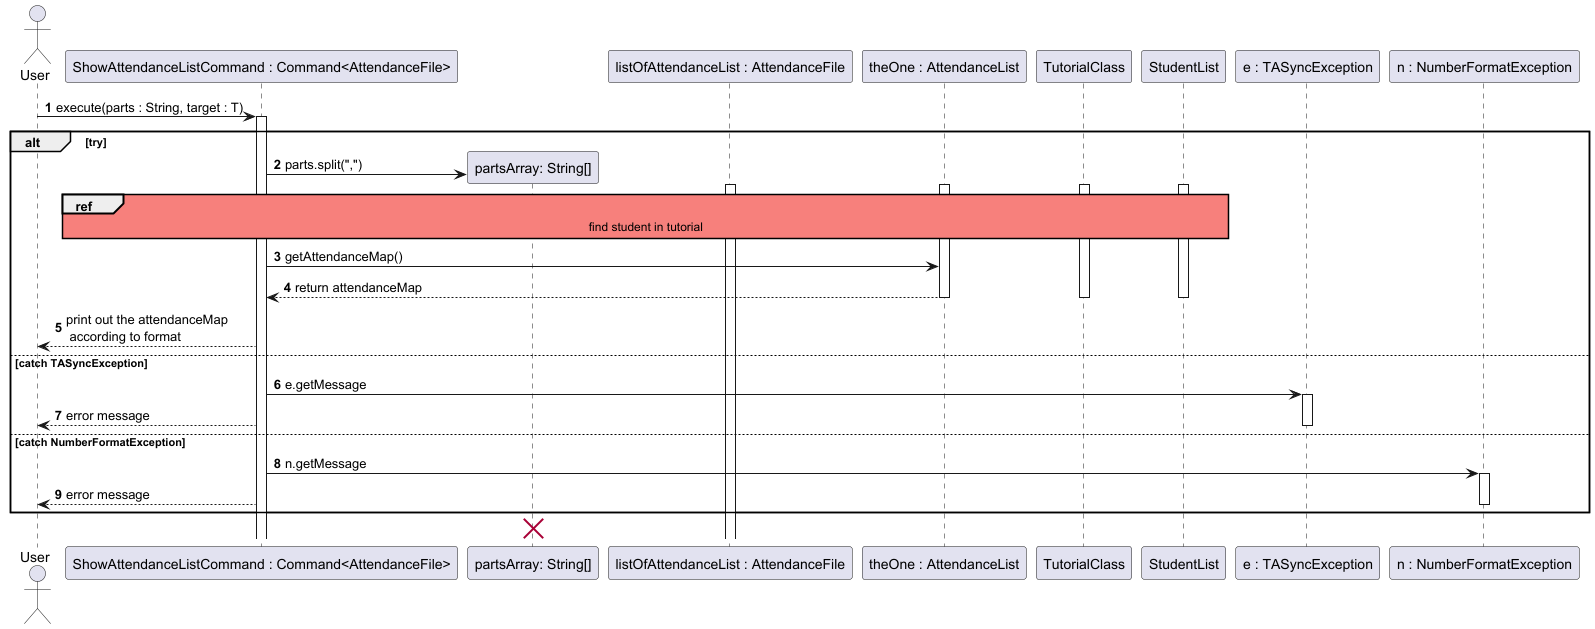
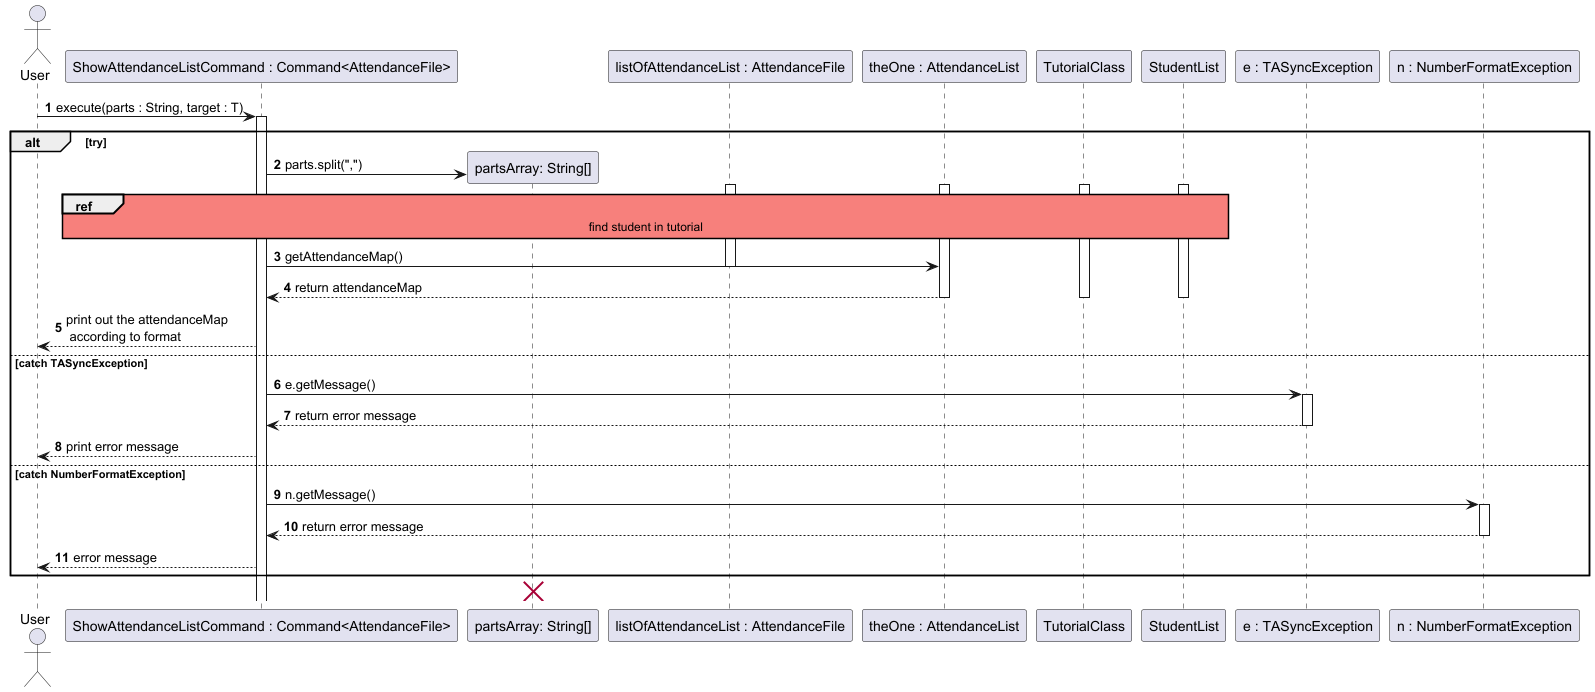
added success message printing for attendance list commands that prev printed nothing.Updated seq diagrams , UG and DG for attendancelist commands

diff --git a/src/test/java/attendancelistcommands/UnmarkStudentAttendanceCommandTest.java b/src/test/java/attendancelistcommands/UnmarkStudentAttendanceCommandTest.java
@@ -42,6 +42,7 @@ public class UnmarkStudentAttendanceCommandTest {
         String output = outputStream.toString().trim();
         assertTrue(output.contains("Roselle Gustave Bonaparte(A333): Absent"));
         assertTrue(output.contains("Kim Dokja(A003): Absent"));
+        assertTrue(output.contains("End of list"));
         outputStream = captureSystemOut();
         command1.execute(input[0], attendanceFile);
         command1.execute(input[1], attendanceFile);
@@ -49,6 +50,7 @@ public class UnmarkStudentAttendanceCommandTest {
         output = outputStream.toString().trim();
         assertTrue(output.contains("Roselle Gustave Bonaparte(A333): Present"));
         assertTrue(output.contains("Kim Dokja(A003): Present"));
+        assertTrue(output.contains("End of list"));
         outputStream = captureSystemOut();
         command2.execute(input[0], attendanceFile);
         command2.execute(input[1], attendanceFile);
@@ -56,37 +58,47 @@ public class UnmarkStudentAttendanceCommandTest {
         output = outputStream.toString().trim();
         assertTrue(output.contains("Roselle Gustave Bonaparte(A333): Absent"));
         assertTrue(output.contains("Kim Dokja(A003): Absent"));
+        assertTrue(output.contains("Student marked Absent"));
+        assertTrue(output.contains("End of list"));
 
         outputStream = captureSystemOut();
         command.execute("T02,3", attendanceFile);
         output = outputStream.toString().trim();
         assertTrue(output.contains("Kim Dokja(A003): Absent"));
+        assertTrue(output.contains("End of list"));
         outputStream = captureSystemOut();
         command1.execute(input[2], attendanceFile);
         command.execute("T02,3", attendanceFile);
         output = outputStream.toString().trim();
         assertTrue(output.contains("Kim Dokja(A003): Present"));
+        assertTrue(output.contains("End of list"));
         outputStream = captureSystemOut();
         command2.execute(input[2], attendanceFile);
         command.execute("T02,3", attendanceFile);
         output = outputStream.toString().trim();
         assertTrue(output.contains("Kim Dokja(A003): Absent"));
+        assertTrue(output.contains("Student marked Absent"));
+        assertTrue(output.contains("End of list"));
 
 
         outputStream = captureSystemOut();
         command.execute("T01,2", attendanceFile);
         output = outputStream.toString().trim();
         assertTrue(output.contains("Roselle Gustave Bonaparte(A333): Absent"));
+        assertTrue(output.contains("End of list"));
         outputStream = captureSystemOut();
         command1.execute(input[3], attendanceFile);
         command.execute("T01,2", attendanceFile);
         output = outputStream.toString().trim();
         assertTrue(output.contains("Roselle Gustave Bonaparte(A333): Present"));
+        assertTrue(output.contains("End of list"));
         outputStream = captureSystemOut();
         command2.execute(input[3], attendanceFile);
         command.execute("T02,3", attendanceFile);
         output = outputStream.toString().trim();
         assertTrue(output.contains("Roselle Gustave Bonaparte(A333): Absent"));
+        assertTrue(output.contains("Student marked Absent"));
+        assertTrue(output.contains("End of list"));
     }
 
     @Test
@@ -97,8 +109,8 @@ public class UnmarkStudentAttendanceCommandTest {
             UnmarkStudentAttendanceCommand command2 = new UnmarkStudentAttendanceCommand();
             command2.execute(s, attendanceFile);
             String output = outputStream.toString().trim();
-            assertTrue(output.contains("Invalid mark attendance command, " +
-                    "please specify a valid attendancelist with a tutorial id, week and valid student id and name"));
+            assertTrue(output.contains("Invalid mark attendance command, "
+                    + "please specify a valid attendancelist with a tutorial id, week and valid student id and name"));
         }
     }
 
@@ -111,8 +123,8 @@ public class UnmarkStudentAttendanceCommandTest {
             UnmarkStudentAttendanceCommand command2 = new UnmarkStudentAttendanceCommand();
             command2.execute(s, attendanceFile);
             String output = outputStream.toString().trim();
-            assertTrue(output.contains("Invalid mark attendance command, " +
-                    "please specify a valid attendancelist with a tutorial id, week and valid student id and name"));
+            assertTrue(output.contains("Invalid mark attendance command, "
+                    + "please specify a valid attendancelist with a tutorial id, week and valid student id and name"));
         }
     }
 
@@ -125,8 +137,8 @@ public class UnmarkStudentAttendanceCommandTest {
             UnmarkStudentAttendanceCommand command2 = new UnmarkStudentAttendanceCommand();
             command2.execute(s, attendanceFile);
             String output = outputStream.toString().trim();
-            assertTrue(output.contains("Invalid mark attendance command, " +
-                    "please specify a valid attendancelist with a tutorial id, week and valid student id and name"));
+            assertTrue(output.contains("Invalid mark attendance command, "
+                    + "please specify a valid attendancelist with a tutorial id, week and valid student id and name"));
 
         }
     }

diff --git a/src/test/java/attendancelistcommands/MarkStudentAttendanceCommandTest.java b/src/test/java/attendancelistcommands/MarkStudentAttendanceCommandTest.java
@@ -8,13 +8,12 @@ import static org.junit.jupiter.api.Assertions.assertTrue;
 
 import java.io.ByteArrayOutputStream;
 
-import attendance.AttendanceFile;
-import command.attendancelistcommands.MarkStudentAttendanceCommand;
-import command.attendancelistcommands.ShowAttendanceListCommand;
 import org.junit.jupiter.api.BeforeEach;
 import org.junit.jupiter.api.Test;
 
-
+import attendance.AttendanceFile;
+import command.attendancelistcommands.MarkStudentAttendanceCommand;
+import command.attendancelistcommands.ShowAttendanceListCommand;
 import tutorial.TutorialClassList;
 
 public class MarkStudentAttendanceCommandTest {
@@ -47,8 +46,10 @@ public class MarkStudentAttendanceCommandTest {
         command1.execute(input[1], attendanceFile);
         command.execute("T01,1", attendanceFile);
         output = outputStream.toString().trim();
+        assertTrue(output.contains("Student marked Present"));
         assertTrue(output.contains("Roselle Gustave Bonaparte(A333): Present"));
         assertTrue(output.contains("Kim Dokja(A003): Present"));
+        assertTrue(output.contains("End of list"));
 
         outputStream = captureSystemOut();
         command.execute("T02,3", attendanceFile);
@@ -58,7 +59,9 @@ public class MarkStudentAttendanceCommandTest {
         command1.execute(input[2], attendanceFile);
         command.execute("T02,3", attendanceFile);
         output = outputStream.toString().trim();
+        assertTrue(output.contains("Student marked Present"));
         assertTrue(output.contains("Kim Dokja(A003): Present"));
+        assertTrue(output.contains("End of list"));
 
 
         outputStream = captureSystemOut();
@@ -69,7 +72,9 @@ public class MarkStudentAttendanceCommandTest {
         command1.execute(input[3], attendanceFile);
         command.execute("T01,2", attendanceFile);
         output = outputStream.toString().trim();
+        assertTrue(output.contains("Student marked Present"));
         assertTrue(output.contains("Roselle Gustave Bonaparte(A333): Present"));
+        assertTrue(output.contains("End of list"));
     }
 
     @Test

diff --git a/src/test/java/attendancelistcommands/DeleteStudentCommentTest.java b/src/test/java/attendancelistcommands/DeleteStudentCommentTest.java
@@ -60,6 +60,7 @@ public class DeleteStudentCommentTest {
         assertTrue(output.contains("1. ugly squid"));
         assertTrue(output.contains("2. korean"));
         assertTrue(output.contains("3. Reader"));
+        assertTrue(output.contains("End of list"));
 
         outputStream = captureSystemOut();
         command2.execute(input[1] + "//1", attendanceFile);
@@ -67,20 +68,20 @@ public class DeleteStudentCommentTest {
         command.execute(input[1], attendanceFile);
         output = outputStream.toString().trim();
         assertTrue(output.contains("1. korean"));
+        assertTrue(output.contains("End of list"));
 
     }
 
     @Test
     public void testNoComments() {
-        String[] input = {"T02,1,Han sooyung,A490//1", "T01,1,Alice Tan,A001//1",
-                          "T01,2,Roselle Gustave Bonaparte,A333//1", "T02,1,Roselle Gustave Bonaparte,A333//3"};
+        String[] input = {"T01,2,Roselle Gustave Bonaparte,A333//1", "T02,1,Roselle Gustave Bonaparte,A333//3"};
 
         for (String s : input) {
             outputStream = captureSystemOut();
             DeleteStudentCommentCommand command = new DeleteStudentCommentCommand();
             command.execute(s, attendanceFile);
             String output = outputStream.toString().trim();
-            assertTrue(output.contains("Comment to be deleted was not present"));
+            assertTrue(output.contains("student has no comments"));
         }
     }
 

diff --git a/src/main/java/command/attendancelistcommands/DeleteStudentCommentCommand.java b/src/main/java/command/attendancelistcommands/DeleteStudentCommentCommand.java
@@ -68,15 +68,16 @@ public class DeleteStudentCommentCommand implements Command<AttendanceFile> {
             if (commentlist.containsKey(derStudent)) {
                 if (commentlist.get(derStudent).isEmpty()) {
                     System.out.println("student has no comments");
-                }
-                int index = Integer.parseInt(partsArray2[1]) - 1;
-                int size = commentlist.get(derStudent).size();
-
-                if (index >= 0 && index < size) {
-                    commentlist.get(derStudent).remove(index);
-                    System.out.println("Comment deleted");
                 } else {
-                    System.out.println("Comment to be deleted was not present");
+                    int index = Integer.parseInt(partsArray2[1]) - 1;
+                    int size = commentlist.get(derStudent).size();
+
+                    if (index >= 0 && index < size) {
+                        commentlist.get(derStudent).remove(index);
+                        System.out.println("Comment deleted");
+                    } else {
+                        System.out.println("Comment to be deleted was not present");
+                    }
                 }
             }
 

diff --git a/src/test/java/attendancelistcommands/ViewStudentCommentsCommandTest.java b/src/test/java/attendancelistcommands/ViewStudentCommentsCommandTest.java
@@ -1,8 +1,8 @@
 package attendancelistcommands;
 
+import static attendancelistcommands.handyfuncs.AttendanceListCommandsTestHandyFuncs.captureSystemOut;
 import static attendancelistcommands.handyfuncs.AttendanceListCommandsTestHandyFuncs.initializeAttendanceFile;
 import static attendancelistcommands.handyfuncs.AttendanceListCommandsTestHandyFuncs.initializeTutorialClasses;
-import static attendancelistcommands.handyfuncs.AttendanceListCommandsTestHandyFuncs.captureSystemOut;
 import static org.junit.jupiter.api.Assertions.assertTrue;
 
 import java.io.ByteArrayOutputStream;
@@ -40,6 +40,7 @@ public class ViewStudentCommentsCommandTest {
         command.execute(input[1], attendanceFile);
         output = outputStream.toString().trim();
         assertTrue(output.contains("ugly squid"));
+        assertTrue(output.contains("End of list"));
 
     }
 

diff --git a/src/test/java/attendancelistcommands/CommentOnStudentCommandTest.java b/src/test/java/attendancelistcommands/CommentOnStudentCommandTest.java
@@ -41,6 +41,7 @@ public class CommentOnStudentCommandTest {
         assertTrue(output.contains("1. Savant transmigrator"));
         assertTrue(output.contains("2. chinese"));
         assertTrue(output.contains("3. clown"));
+        assertTrue(output.contains("End of list"));
         outputStream = captureSystemOut();
         command1.execute(input[1] + "//" + newComments[1], attendanceFile);
         command.execute(input[1], attendanceFile);
@@ -48,6 +49,7 @@ public class CommentOnStudentCommandTest {
         assertTrue(output.contains("1. ugly squid"));
         assertTrue(output.contains("2. korean"));
         assertTrue(output.contains("3. Reader"));
+        assertTrue(output.contains("End of list"));
 
     }
 

diff --git a/src/main/java/command/attendancelistcommands/CommentOnStudentCommand.java b/src/main/java/command/attendancelistcommands/CommentOnStudentCommand.java
@@ -68,6 +68,16 @@ public class CommentOnStudentCommand implements Command<AttendanceFile> {
 
             theOne.addComments(derStudent, comments);
 
+            System.out.println("added comment to " + partsArray[2] + " (" + partsArray[3] + ") in tutorial "
+                    + partsArray[0] + " week " + partsArray[1]);
+            int i = 1;
+            for (String comment : comments) {
+                System.out.println(i + ". " + comment);
+                i += 1;
+            }
+
+            System.out.println("End of list");
+
         } catch (TASyncException e) {
             System.out.println(e.getMessage());
         } catch (NumberFormatException e) {

diff --git a/src/test/java/attendancelistcommands/ShowAttendanceListCommandTest.java b/src/test/java/attendancelistcommands/ShowAttendanceListCommandTest.java
@@ -13,8 +13,6 @@ import org.junit.jupiter.api.Test;
 
 import attendance.AttendanceFile;
 import command.attendancelistcommands.ShowAttendanceListCommand;
-
-
 import tutorial.TutorialClassList;
 
 public class ShowAttendanceListCommandTest {
@@ -41,7 +39,7 @@ public class ShowAttendanceListCommandTest {
         assertTrue(output.contains("Roselle Gustave Bonaparte(A333): Absent"));
         assertTrue(output.contains("Kim Dokja(A003): Absent"));
         assertFalse(output.contains("Han sooyung(A490): Absent"));
-        assertTrue(output.contains("end of list"));
+        assertTrue(output.contains("End of list"));
     }
 
     @Test

diff --git a/src/main/java/command/attendancelistcommands/ViewStudentCommentsCommand.java b/src/main/java/command/attendancelistcommands/ViewStudentCommentsCommand.java
@@ -61,6 +61,8 @@ public class ViewStudentCommentsCommand implements Command<AttendanceFile> {
                 for (int i = 0; i < comments.size(); i++) {
                     System.out.println((i + 1) + ". " + comments.get(i));
                 }
+
+                System.out.println("End of list");
             } else {
                 System.out.println("Selected student has no comments given to them");
             }

diff --git a/src/main/java/command/attendancelistcommands/MarkStudentAttendanceCommand.java b/src/main/java/command/attendancelistcommands/MarkStudentAttendanceCommand.java
@@ -56,6 +56,7 @@ public class MarkStudentAttendanceCommand implements Command<AttendanceFile> {
 
             Map<Student, String> attendanceMap = theOne.getAttendanceMap();
             attendanceMap.replace(derStudent, "Present");
+            System.out.println("Student marked Present");
         } catch (TASyncException e) {
             System.out.println(e.getMessage());
         } catch (NumberFormatException e) {

diff --git a/src/main/java/command/attendancelistcommands/UnmarkStudentAttendanceCommand.java b/src/main/java/command/attendancelistcommands/UnmarkStudentAttendanceCommand.java
@@ -55,6 +55,7 @@ public class UnmarkStudentAttendanceCommand implements Command<AttendanceFile> {
 
             Map<Student, String> attendanceMap = theOne.getAttendanceMap();
             attendanceMap.replace(derStudent, "Absent");
+            System.out.println("Student marked Absent");
         } catch (TASyncException e) {
             System.out.println(e.getMessage());
         } catch (NumberFormatException e) {

diff --git a/src/test/java/attendancelistcommands/CreateNewAttendanceListCommandTest.java b/src/test/java/attendancelistcommands/CreateNewAttendanceListCommandTest.java
@@ -49,7 +49,7 @@ public class CreateNewAttendanceListCommandTest {
         assertTrue(output.contains("Roselle Gustave Bonaparte(A333): Absent"));
         assertTrue(output.contains("Kim Dokja(A003): Absent"));
         assertFalse(output.contains("Han sooyung(A490): Absent"));
-        assertTrue(output.contains("end of list"));
+        assertTrue(output.contains("End of list"));
     }
 
     @Test
